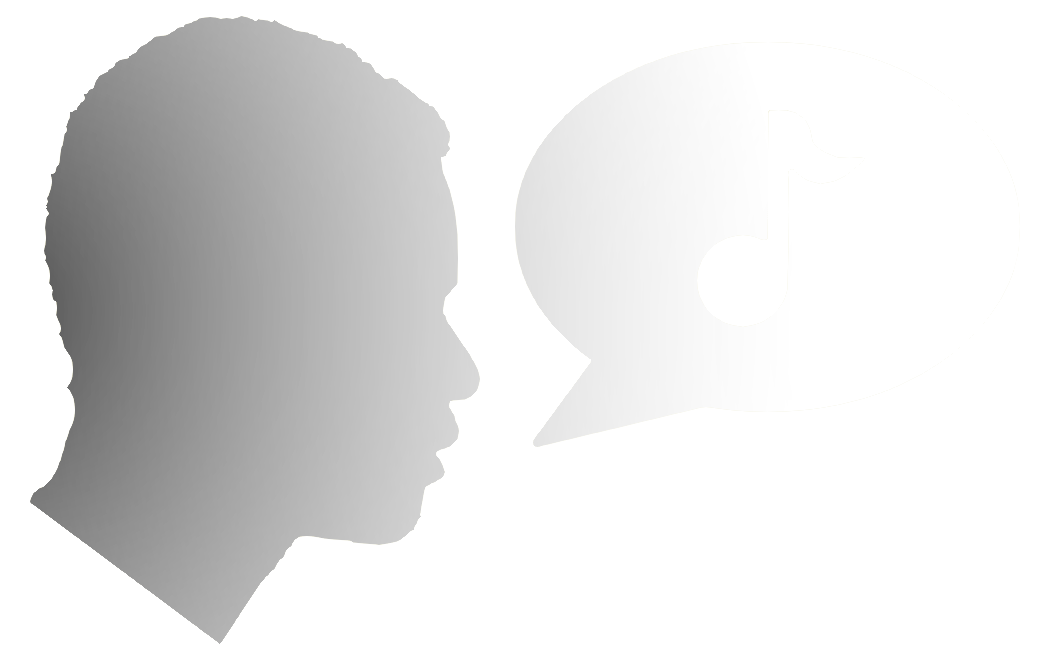
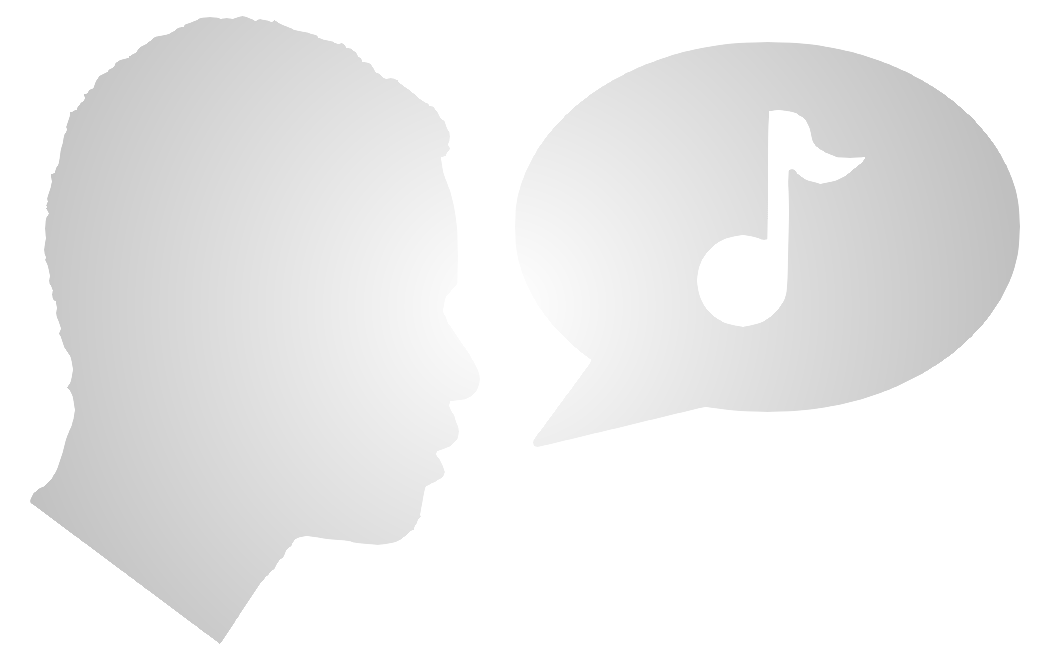
fost2

diff --git a/docs/index.html b/docs/index.html
@@ -144,17 +144,13 @@ audio {
   overflow: visible;
   max-width: 100%;
 }
- .LancasterMusicPlayer {
+.LancasterMusicPlayer {
   width: 100%;
-  height: 100%; /* Important */
+  height: 100%;
   text-align: center;
   color: #d3d3d3;
   position: relative;
   overflow: hidden;
-  background-image: url('fmp3simages/FostBranding.png');
-  background-repeat: no-repeat;
-  background-position: bottom center;
-  background-size: auto 33%;
 }
 /*----Bars----*/
 .Password {
@@ -479,6 +475,7 @@ audio {
   align-items: center;
   justify-content: center;
   position: relative;
+  overflow: visible;
 }
 .Emphasis {
   opacity: .8;
@@ -492,6 +489,19 @@ audio {
   z-index: 0;
   animation: Emphasis 3s linear infinite;
   pointer-events: none;
+}
+.fostmp3sdesign {
+  position: absolute;
+  overflow: visible;
+  top: 50%;
+  left: 50%;
+  width: 300px;
+  height: 300px;
+  transform: translate(-50%, -50%) rotate(0deg);
+  background-image: url('fmp3simages/FostBranding.png');
+  background-repeat: no-repeat;
+  background-size: 300px auto;
+  background-position: center center;
 }
 #playLogo {
   height: auto;
@@ -1277,6 +1287,7 @@ li {
       <td>
         <div class="MusicButton" id="playBtn" alt="Play/Pause Music" title="Play/Pause Music">
     <img class="Emphasis" src="fmp3simages/Emphasis.png">
+    <div class="fostmp3sdesign"></div>
     <div class="upeffect">
       <span class="up up1"></span>
       <span class="up up2"></span>
